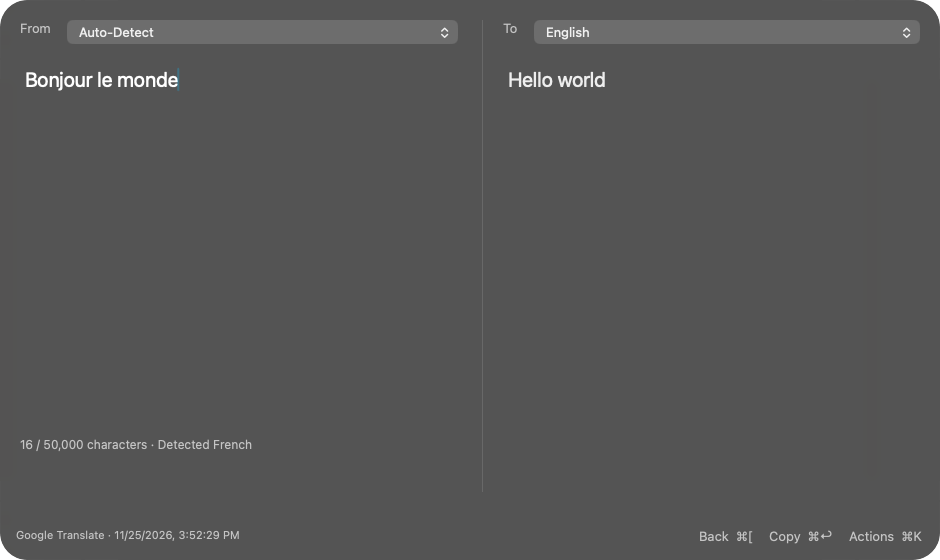
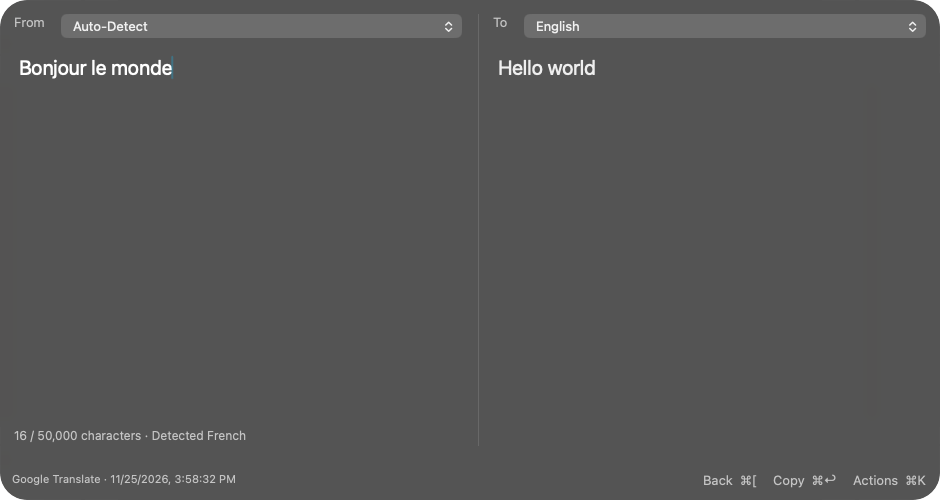
fix(translate): tighten footer spacing while retaining large text panes

diff --git a/workflows/z-translate/ui/window.ts b/workflows/z-translate/ui/window.ts
@@ -33,14 +33,14 @@ export const components = (s: State): Json[] => [
     layout: "grid",
     rows: 1,
     cols: 2,
-    padding: 20,
-    spacing: 24,
+    padding: 14,
+    spacing: 16,
     constraints: { region: "centre" },
     components: [
       {
         type: "view",
         layout: "border",
-        spacing: 16,
+        spacing: 10,
         components: [
           {
             type: "view",
@@ -64,7 +64,7 @@ export const components = (s: State): Json[] => [
             font: { size: 20 },
             disableallsubstitutions: true,
             textinsets: { horizontal: 0, vertical: 8 },
-            constraints: { region: "centre", size: { width: 350, height: 340 } },
+            constraints: { region: "centre", size: { width: 350, height: 64 } },
             events: [
               {
                 triggers: "changed",
@@ -76,20 +76,20 @@ export const components = (s: State): Json[] => [
           label("sourceInfo", `${characterCount(s.query)} / 50,000 characters`, {
             font: { size: 12 },
             colour: "secondaryLabelColor",
-            constraints: { region: "bottom", size: { height: 55 } },
+            constraints: { region: "bottom", size: { height: 18 } },
           }),
         ],
       },
       {
         type: "view",
         layout: "border",
-        spacing: 20,
+        spacing: 14,
         components: [
           { type: "view", background: "separatorColor", constraints: { region: "left", size: { width: 1 } } },
           {
             type: "view",
             layout: "border",
-            spacing: 16,
+            spacing: 10,
             constraints: { region: "centre" },
             components: [
               {
@@ -112,13 +112,13 @@ export const components = (s: State): Json[] => [
                 bordertype: "none",
                 font: { size: 20 },
                 textinsets: { horizontal: 0, vertical: 8 },
-                constraints: { region: "centre", size: { width: 350, height: 340 } },
+                constraints: { region: "centre", size: { width: 350, height: 64 } },
               },
               label("pronunciation", s.result?.pronunciation || "", {
                 font: { size: 13 },
                 colour: "secondaryLabelColor",
-                linebreak: "wordwrap",
-                constraints: { region: "bottom", size: { height: 55 } },
+                linebreak: "truncatetail",
+                constraints: { region: "bottom", size: { height: 18 } },
               }),
             ],
           },
@@ -129,7 +129,7 @@ export const components = (s: State): Json[] => [
   {
     type: "view",
     layout: "border",
-    padding: 16,
+    padding: 12,
     spacing: 12,
     constraints: { region: "bottom" },
     components: [
@@ -166,7 +166,7 @@ export const toolWindow = {
   },
   window: {
     title: "Translate",
-    size: { width: 940, height: 560 },
+    size: { width: 940, height: 500 },
     root: {
       id: "root",
       type: "view",

diff --git a/workflows/z-translate/src/main.ts b/workflows/z-translate/src/main.ts
@@ -33,7 +33,7 @@ const resultAction = (s: State): Action =>
       sourceInfo: {
         text: `${characterCount(s.query)} / 50,000 characters${s.result ? ` · ${s.from === "auto" ? "Detected" : "Source"} ${languageName(s.result.from)}` : ""}`,
       },
-      pronunciation: { text: s.result?.pronunciation || "" },
+      pronunciation: { text: s.result?.pronunciation || "", tooltip: s.result?.pronunciation || "" },
       statusLabel: {
         text: s.status,
         tooltip: s.status,

diff --git a/workflows/z-translate/README.md b/workflows/z-translate/README.md
@@ -14,7 +14,7 @@ Copy some text, then invoke Translate without an argument: it reads the clipboar
 
 Edit the left pane to translate after typing pauses. Inputs support **50,000 Unicode characters**. Long text is split at paragraph/word boundaries into requests of up to 4,500 characters, with parts translated sequentially and progress shown in the footer. Completed parts appear while later parts load; copying is enabled when the full translation finishes. If a request fails, **Continue Translation** appears in Actions and resumes the remaining parts without repeating completed work. From supports **Auto-Detect**; To selects one of 249 languages, including Bengali. The detected language appears under the original text. Pronunciation appears under the translation when Google provides it. Language choices persist between launches; Workflow Configuration provides initial defaults.
 
-Both panes scroll for longer text, and translated text can be selected directly. **⌘↩** copies the completed translation. Copy is disabled during typing, and request tickets prevent earlier results from replacing newer text. **⌘L** swaps languages and moves the translation into the original pane.
+The split window keeps a large editing area with compact metadata and footer spacing. Both panes scroll for longer text, and translated text can be selected directly. **⌘↩** copies the completed translation. Copy is disabled during typing, and request tickets prevent earlier results from replacing newer text. **⌘L** swaps languages and moves the translation into the original pane.
 
 **⌘K** includes Copy Translation, Paste Translation, Copy Pronunciation, Copy Original Text, Use Clipboard, Swap Languages, Continue Translation, Translate Again (⌘R), Open in Google Translate, language defaults/configuration, and Clear Cached Translations. Paste closes the UI, copies the result and uses macOS Accessibility to paste into the previously focused app; the OS may request permission when first used.
 
